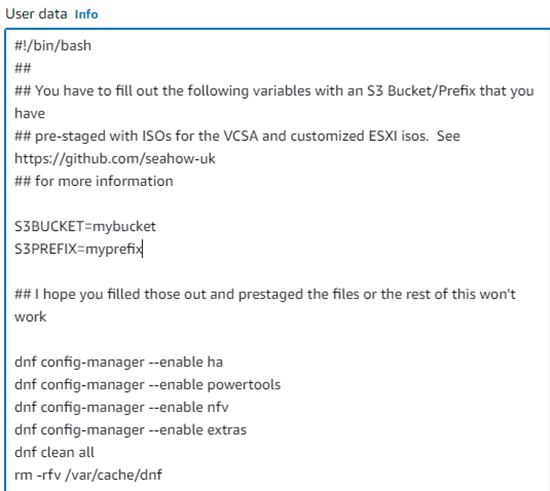
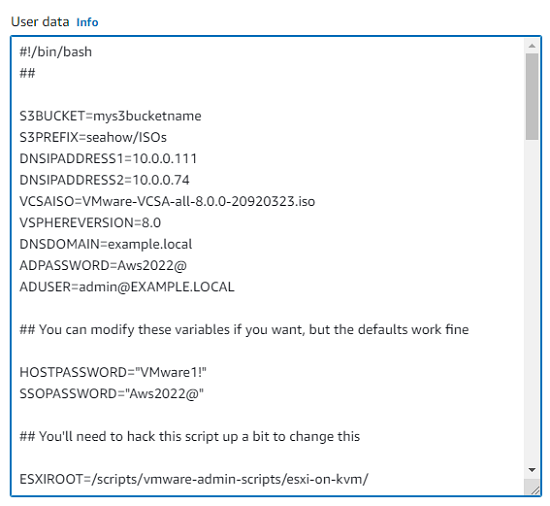
test

Changed region(s): [[0.0, 0.0, 1.0, 1.0], [0.8036, 0.2444, 0.8345, 0.3055]]

diff --git a/esxi-on-kvm/README.md b/esxi-on-kvm/README.md
@@ -133,10 +133,10 @@ Known good VCSA ISOs
     What these variables mean:
 
     *   **S3BUCKET=**
-        *   *example:  S3BUCKET=mybucket*
+        *   *example:  S3BUCKET=mys3bucketname*
         *   Don't include the https:// or s3:// or any of that.  Just the base bucket name
     *   **S3PREFIX=**
-        *   *example:  S3PREFIX=myprefix*
+        *   *example:  S3PREFIX=seahow/ISOs*
         *   Don't include the "/" on either side
     *   **DNSIPADDRESS1=**
         *   *example:  DNSIPADDRESS1=10.0.0.111*
@@ -158,7 +158,13 @@ Known good VCSA ISOs
     *   **ADUSER=**
         *   *example:  ADUSER=admin@EXAMPLE.LOCAL*
         *   NOTE: The domain name needs to be in all caps.  Oddity of realmsd.
-
+    *   **HOSTPASSWORD=**
+        *   *example:  HOSTPASSWORD=VMware1!*
+        *   The password to set for root on the ESXi hosts themselves
+    *   **SSOPASSWORD=**
+        *   *example:  SSOPASSWORD=AWS2022@*
+        *   Password for administrator@lab1.local and administrator@lab2.local on the VCSAs
+  
  *  This userdata script will 
   
     *  download this git repo to the L0
